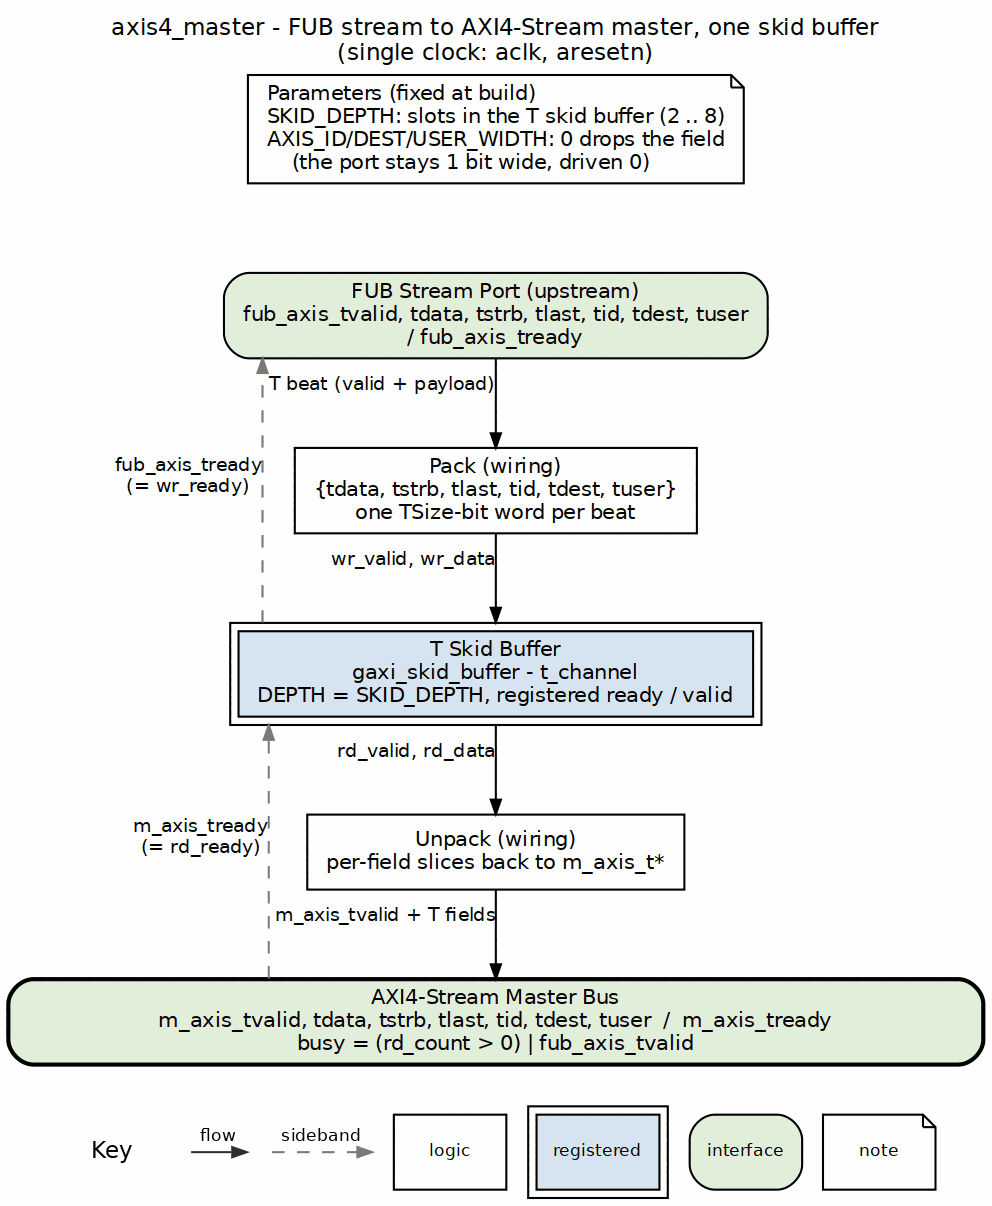
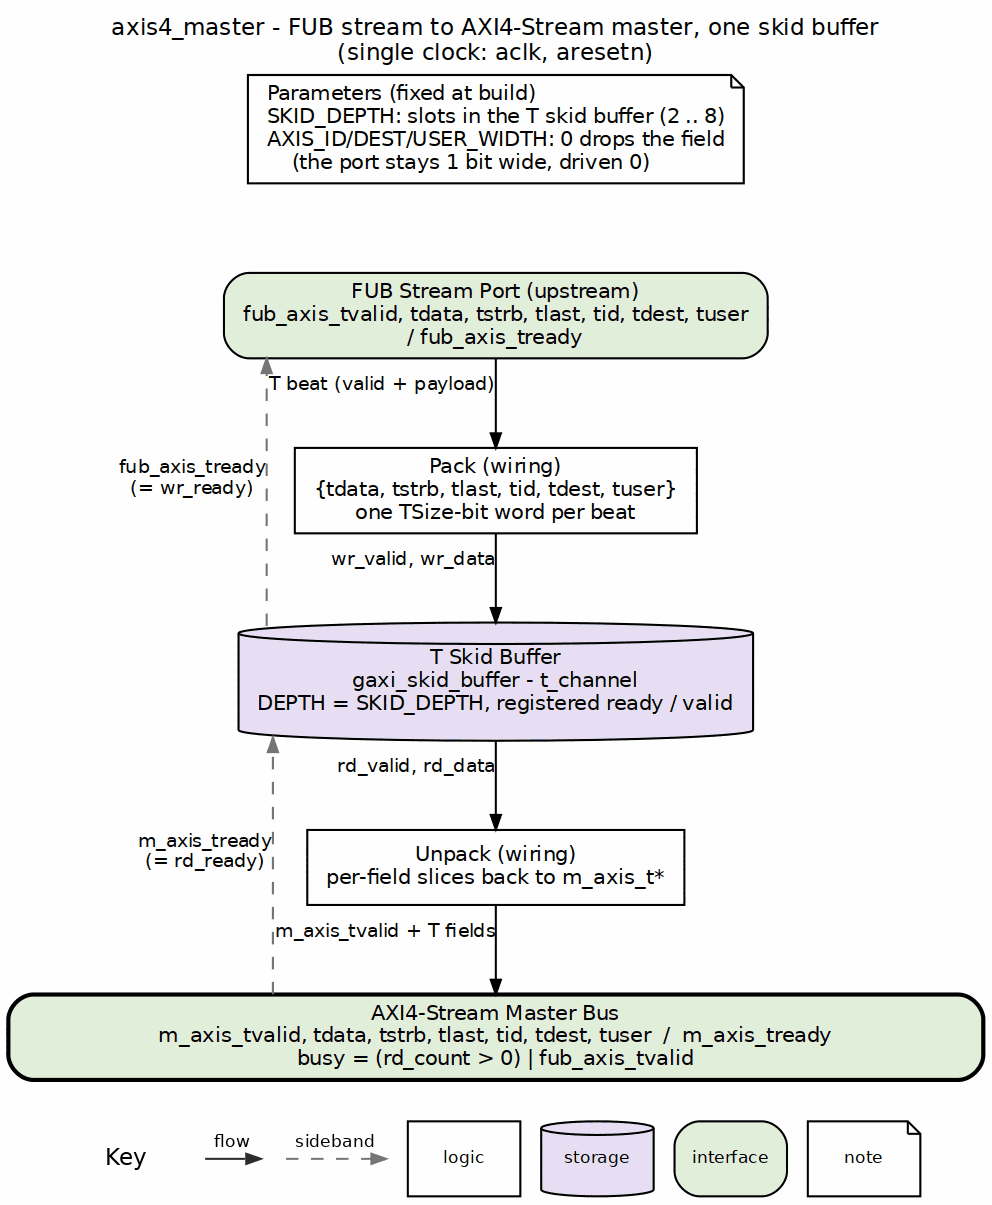
docs(handbook, amba): a FIFO or skid child instance is a Storage cylinder; 15 rtl-amba diagrams swept
Owner ruling 2026-10-25, recorded in block-diagrams.md under the element
key as "Child instances: which class": a gaxi_fifo_sync, gaxi_skid_buffer
or gaxi_fifo_async the parent instantiates is a Storage cylinder whatever
its output timing, the flopped crossing is stated on the bar or edge, and
the block whose outputs leave through such a child is the final Registered
case (the reference intakes). A merged box takes the class of what
dominates it (the monbus compressor group stays Registered).

The audit behind it: of 118 instance nodes in the rtl-amba diagrams, 98
were cylinders, 12 Registered double boxes (the R skid on six *_rd blocks,
the T skid on four AXIS blocks, the crc_check debug FIFO, the compressor
group) and 6 white (both APB master-stub first/last FIFOs, both CDC FIFOs
on both APB slave CDCs). Everything but the compressor group is swept to
the cylinder and re-rendered through bin/render_block_diagram.py, so the
generated keys follow.

.claude/skills/block-diagrams/SKILL.md is the new signpost; there was no
block-diagram skill before, only the note.

diff --git a/vault/handbook/authoring/block-diagrams.md b/vault/handbook/authoring/block-diagrams.md
@@ -10,7 +10,7 @@ block or microarchitecture diagram follows this note: HAS/MAS books,
 `docs/markdown` module pages, README figures, vault notes, FPGA system docs.
 It supersedes the older "diagrams are Mermaid" rule in [[spec-doc-standards]].
 
-**Status: v3 (element key 2026-10-19; reference example, return colour and key rulings the same day), being refined.** The rules came from the memory-controller
+**Status: v3 (element key 2026-10-19; reference example, return colour and key rulings the same day; child-instance class ruling 2026-10-25), being refined.** The rules came from the memory-controller
 family and were proven there. Applying them to other block shapes (an
 arbiter, a CDC block, a FIFO, a bridge, a DMA engine) is in progress with the
 owner, one diagram at a time. When a diagram shows a rule needs restating for
@@ -202,9 +202,9 @@ between its lanes (six had sat across a neighbouring line).
 |---|---|---|---|
 | Interface / boundary | `shape=box, style="rounded,filled"` (bar: `penwidth=2.2`); comb crossing adds `dashed` | `#E2EFDA` green | A port of the drawn unit, and the boundary bar |
 | Combinational | `shape=box` | white | Logic with no state: masks, compares, muxes, decodes |
-| Registered | `shape=box, peripheries=2` | `#D6E4F0` blue | A block whose output is a flop: pipeline and issue registers, counters, sticky flags |
+| Registered | `shape=box, peripheries=2` | `#D6E4F0` blue | A block whose output is a flop: pipeline and issue registers, counters, sticky flags, and a block whose outputs leave through a FIFO or skid child (the reference's intakes end in `gaxi_fifo_sync`) |
 | FSM | `shape=box, style="filled,diagonals", peripheries=2` | `#FCE4D6` peach | A sequencer with named states |
-| Storage | `shape=cylinder` | `#E8DFF5` lavender | FIFO, RAM, CAM, register file |
+| Storage | `shape=cylinder` | `#E8DFF5` lavender | FIFO, RAM, CAM, register file -- including every FIFO or skid child the parent instantiates (`gaxi_fifo_sync - inst`, `gaxi_skid_buffer - inst`), see "Child instances" |
 | Arbiter / pick | `shape=invtrapezium` (rule 9) | `#FFF2CC` gold | A genuine many-to-one pick |
 | Optional | the class's shape, `style` plus `dashed` | the class's fill | Build-dependent (rule 8) |
 | Legend / note | `shape=note` | white | Parameters, notes |
@@ -243,6 +243,50 @@ between its lanes (six had sat across a neighbouring line).
   at DFI cmd FIFO)", "(sampled at store)"). A combinational crossing is where
   timing failures live -- a diagram that hides them hides the one thing the
   reader came to check.
+
+### Child instances: which class (owner ruling 2026-10-25)
+
+A module the parent instantiates is one node, classified from the child's
+RTL, with `module - instance` as the label's second line (`gaxi_skid_buffer -
+ar_channel`). The cases:
+
+- **A FIFO or skid child is a Storage cylinder, whatever its output timing.**
+  `gaxi_fifo_sync`, `gaxi_skid_buffer`, `gaxi_fifo_async`, a CAM, a RAM, a
+  ring. The cylinder says "entries live here"; the label carries the depth,
+  what one entry holds, who pushes and pops, and the read timing ("mux read",
+  or "REGISTERED=1: rd_data flopped"). Its ready and valid outputs are flops
+  in every one of these modules, so the crossing it makes is flopped: state
+  that where the reader needs it, on the bar or the edge ("all crossings
+  flopped (skid / fifo)" in the reference), never by changing the shape. The
+  owner chose this over marking the instance Registered because the key
+  already says Storage is a FIFO, and a reader who sees a cylinder on a lane
+  knows at once that the lane is buffered and where.
+- **A block whose outputs leave through such a child is Registered.** This
+  is the final Registered case: the reference's write and read intakes carry
+  no output flop of their own, but everything they emit leaves through a
+  `gaxi_fifo_sync` queue, so they take the double border and blue. The queue
+  itself is not drawn when it is the block's output stage and nothing else
+  touches it; it is drawn, as a cylinder, when another block reads or pops
+  it.
+- **A non-storage child with flopped outputs is Registered** (`counter_bin`,
+  a register slice, a sticky-flag module). A child arbiter is the trapezium
+  (rule 9). A pure-logic child (an encoder, a decode, `gray2bin`) is white.
+- **A merged box takes the class of what dominates it.** The monbus
+  compressor group (`u_comp_in_skid` + `u_compressor` + `u_packer`) is a
+  Registered dashed box: the skid is one input stage of a registered
+  pipeline, so the node is not a cylinder.
+
+**The failure that set it** (2026-10-25 audit of the rtl-amba diagrams): of
+118 nodes standing for a `gaxi_fifo_sync`, `gaxi_skid_buffer` or
+`gaxi_fifo_async` instance, 98 were cylinders, 12 were Registered double
+boxes (the R skid on six `*_rd` masters and slaves, the T skid on four AXIS
+blocks, `u_dbg_fifo` in `axi4_master_rd_crc_check`, the compressor group)
+and 6 were white (`u_first_last_fifo` on both APB master stubs, both CDC
+FIFOs on both APB slave CDCs). White is the worst of the three: a FIFO drawn
+as Combinational tells the reader the one thing it is not. The AR skid as a
+cylinder beside the R skid as a double box, on the same page, said the two
+were different kinds of thing. Everything except the compressor group was
+swept to the cylinder and re-rendered.
 
 ### The key
 

diff --git a/.claude/skills/block-diagrams/SKILL.md b/.claude/skills/block-diagrams/SKILL.md
@@ -1,0 +1,29 @@
+---
+name: block-diagrams
+description: The binding house style for every block / microarchitecture diagram - graphviz dot, one column per flow, labeled arrows, one boundary bar, the element key (shape and fill name the class), and the render-then-read check. Use before drawing or changing ANY block diagram in a HAS/MAS, a docs/markdown module page, a README or a vault note.
+---
+
+# block-diagrams
+
+READ FIRST: vault/handbook/INDEX.md (the handbook is the repo's memory; this skill is the
+signpost). Canonical: vault/handbook/authoring/block-diagrams.md - rules in priority
+order, the element key, layout recipes, the per-shape rulings and the failures behind them.
+
+The rules that get violated most:
+- **Copy the reference, do not retype it:**
+  `vault/handbook/authoring/assets/block-diagrams/axi_plane.dot`.
+- **Shape and fill name the class.** Interface rounded green, logic white,
+  Registered double border blue, FSM diagonals peach, Storage cylinder
+  lavender, pick trapezium gold, optional dashed. Classify from the RTL.
+- **A FIFO or skid child instance is a Storage cylinder** (owner, 2026-10-25),
+  whatever its output timing; the block whose outputs leave through it is
+  Registered. See "Child instances" in the note.
+- **The key is GENERATED.** Render with `bin/render_block_diagram.py X.dot`
+  (or the directory's `regenerate_all_graphviz.sh`), never a hand-drawn
+  `cluster_key`.
+- **Render, then read the PNG** at full resolution: no text on a line, every
+  flow traceable, every arrow labeled with what it carries.
+
+The handbook root is vault/handbook/INDEX.md - design/, dv/, fpga/, authoring/ areas,
+atomic notes, wikilinked. When you learn a durable lesson in this domain,
+ADD IT TO THE HANDBOOK NOTE ([[block-diagrams]]), not to this skill.
